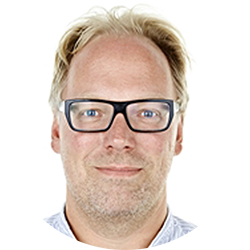
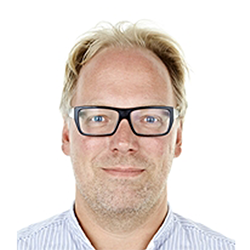
Billeder på aktivitet-undermenuer + nye personfotos
Har indsat fotos på aktivitet undermenuerne
samt nye personfotos

diff --git a/css/style.css b/css/style.css
@@ -399,11 +399,14 @@ color:#eb5612;
 ------------------------------------------------------------------*/
 
 
-article.personfotos {
+.personfotos {
 	margin-right:30px;
 	width: 250px;
 	height: 250px;
     display: inline-block;
+	-moz-border-radius: 50%;
+	border-radius: 50%;
+	border:3px solid #FFF;
 }
 
 article.persontekst {
@@ -414,6 +417,49 @@ article.persontekst {
 	height: 230px;
 }
 
+/*-----------------------------------------------------------------
+	module: kursus oversigt
+
+------------------------------------------------------------------*/
+
+.kursustekst {
+	float:right;
+	padding-top: 20px;
+	display:inline-block;
+	width: 650px;
+	height: 230px;
+}
+
+.kursuskrea, .kursusmad, .kursussten, .kursusbronze {
+	margin-right:30px;
+	width: 250px;
+	height: 250px;
+    display: inline-block;
+	-moz-border-radius: 50%;
+	border-radius: 50%;
+	border:3px solid #FFF;
+}
+/*-----------------------------------------------------------------
+	module: nordisk mesterskab 2016 side
+
+------------------------------------------------------------------*/
+.nordisktekst, .smedefestivaltekst, .workshoptekst {
+	float: left;
+	padding-top: 20px;
+	display:inline-block;
+	width: 650px;
+	height: 230px;
+}
+.nordiskfoto, .smedefestivalfoto, .workshopfoto {
+	margin-left:5px;
+	margin-top:100px;
+	width: 250px;
+	height: 250px;
+    display: inline-block;
+	-moz-border-radius: 50%;
+	border-radius: 50%;
+	border:3px solid #FFF;
+}
 /*-----------------------------------------------------------------
 	galleri: slider fra http://thedesignhill.com/wp-content/uploads/2014/01/creating-a-slick-auto-playing-featured-content-slider1
 

diff --git a/kurser.php b/kurser.php
@@ -8,10 +8,11 @@
 	<p class="space">	Kurser har fokus på ét emne/ håndværk og varer fra en til flere dage. 	Kurser kan også arrangeres efter aftale.</p>
 	
 	<article>
-		<h2>Kursus-kalender 2015:</h2>       	
+		<h2>Kursus-kalender 2015:</h2> 
+	<img class="kursuskrea" src="images/kreainnoentre.png">
+    <article class="kursustekst">      	
 		<h3>Kreativitet, innovation og entreprenørskab (3 dage) Pris: 1500Kr.</h3>
 		<p class="space"><date>Dato: 25-27.5. 2015. Fredag 16-21. Lørdag og søndag 9-16</date></p>
-		
 		<p>
 			Alle steder fra peges på behovet for innovation! Men hvordan lærer vi at blive innovative, og hvad vil det egentlig sige? – en ny måde at tænke og handle på? 
 			Kurset vil tage udgangspunkt i forskellige innovationsteorier samt anvende KIE modellen som metode for de mange workshops som deltagerne vil blive præsenteret for i løbet af kurset. 
@@ -23,28 +24,29 @@
 		</p>
 	</article>
 
-	<article>
+	<img class="kursusmad" src="images/madidetfri.png">
+    <article class="kursustekst"> 
 		<h3>Mad i det fri (1 dag). Pris 400Kr.</h3>
 		<p class="space"><date>Dato: 12. 5. 2012. Kl. 9-19<date></p>
 		<p class="space">
 			Mad i det fri, er kurset som vil give dig en indføring i madkunst over bål. Der vil både blive kogt, stegt, bagt og røget over åben ild. 
-			Endvidere skal vi fremstille og afprøve den årtusinde gamle opfindelse, jordovnen. Så hvis du er lærer eller pædagog som gerne vil i gang med at lave mad sammen med 
-			børn i det fri, eller privatperson som godt kunne tænke sig at komme i gang med at lave mad over bål hjemme i haven, så er dette et kursus som vil få dig godt i gang.
-			Fakta: Materia råder over Danmarks måske største åbne grill.
+			Endvidere skal vi fremstille og afprøve den årtusinde gamle opfindelse, jordovnen. Så hvis du er lærer eller pædagog som gerne vil i gang med at lave mad sammen med børn i det fri, eller privatperson som godt kunne tænke sig at komme i gang med at lave mad over bål hjemme i haven, så er dette et kursus som vil få dig godt i gang. Fakta: Materia råder over Danmarks måske største åbne grill.
 		</p>
 	</article>
 		
-	<article>
+	<img class="kursussten" src="images/stenhugning.png">
+    <article class="kursustekst"> 
 		<h3>Stenhugning  (2 dage) Pris 1000Kr.</h3>
 		<p class="space"><date>Dato: 29-30.10. 2011. Begge dage 9-16 (husk varmt tøj).<date></p>
 		<p class="space">
-			Kurset i stenhugning er for dig der synes granit er et smukt materiale, -men som endnu ikke ved, hvordan man bearbejder det. Kurset vil give dig indsigt i materialer, 
-			forskellige værktøjer og maskiner samt slibning, pudsning og polering. Desuden vil der på kurset blive diskuteret formgivning og blive givet råd og vejledning til de enkelte projekter. 
-			Kræver ingen forkundskaber, men det er en fordel, hvis du ikke er bange for at lære en vinkelsliber at kende.
+			Kurset i stenhugning er for dig der synes granit er et smukt materiale, -men som endnu ikke ved, hvordan man bearbejder det. Kurset vil give dig indsigt i materialer, forskellige værktøjer og maskiner samt slibning, pudsning og polering. Desuden vil der på kurset blive diskuteret formgivning og blive givet råd og vejledning til de enkelte projekter. 
+Kræver ingen forkundskaber, men det er en fordel, hvis du ikke er bange for at lære en vinkelsliber at kende.
 		</p>
 	</article>
 		
-	<article>
+	
+	<img class="kursusbronze" src="images/bronzestobning.png">
+    <article class="kursustekst"> 
 		<h3>Bronzestøbning - sandstøbning (2 dage) Pris 800Kr.</h3>
 		<p class="space"><date>Dato: 08-09.2011. Begge dage 9-16</date></p>
 		<p class="space">Kurset er for dig der gerne vil prøve at udtrykke dig i et helt andet materiale, nemlig bronze. 

diff --git a/om_materia.php b/om_materia.php
@@ -34,8 +34,7 @@
 			</p>
 		</article>
 
-		<article class="personfotos">
-			<img src="images/peterKnoss.png">
+		<img class="personfotos" src="images/peterKnoss.png">
 		</article>
 		<article class="persontekst">
 			<h3>Peter Knøss</h3>
@@ -47,10 +46,7 @@
 			</p>
 		</article>
 
-
-
-		<article class="personfotos">
-			<img src="images/klausPoulsen.png">
+		<img class="personfotos" src="images/klausPoulsen.png">
 		</article>
 		<article class="persontekst">
 			<h3>Klaus Poulsen</h3>
@@ -65,10 +61,7 @@
 			</p>
 		</article>
 
-
-
-		<article class="personfotos">
-			<img src="images/troelsNyholt.png">
+		<img class="personfotos" src="images/troelsNyholt.png">
 		</article>
 		<article class="persontekst">
 			<h3>Troels Nyholt</h3>
@@ -78,10 +71,7 @@
 			</p>
 		</article>
 
-
-
-		<article class="personfotos">
-			<img src="images/personAndreas.png">
+		<img class="personfotos" src="images/personAndreas.png">
 		</article>
 		<article class="persontekst">
 			<h3>Andreas</h3>
@@ -91,10 +81,7 @@
 			</p>
 		</article>
 
-
-
-		<article class="personfotos">
-			<img src="images/personPia.png">
+		<img class="personfotos" src="images/personPia.png">
 		</article>
 		<article class="persontekst">
 			<h3>Pia</h3>
@@ -103,10 +90,7 @@
 			</p>
 		</article>
 
-
-
-		<article class="personfotos">
-			<img src="images/personSoren.png">
+		<img class="personfotos" src="images/personSoren.png">
 		</article>
 		<article class="persontekst">
 			<h3>Søren</h3>

diff --git a/smedefestival.php b/smedefestival.php
@@ -3,10 +3,10 @@
 
 	<?php include('includes/sub_menu_aktiviteter.php');?>
 
-
+<article class="smedefestivaltekst">
 	<h1>Smedefestival</h1>
 
-	<date>Fredag eftermiddag d. 6. marts til søndag d. 8. marts.</date>
+	<date>Fredag eftermiddag d. 6. marts til søndag d. 8. marts 2015.</date>
 	
 	<h2>Kære Smedefolk.</h2>
 
@@ -19,6 +19,8 @@
 	<p>De som ønsker at deltage, tildeles 3 timer til at arbejde i, hvorefter produkterne vil blive bedømt - med fokus på deres kunstneriske og æstetiske udtryk. Dommerne er kunstnerne Jens Rømer og Bjørn Kromann. Der vil blive en flot præmie til vinderen.</p>
 	 
 	<p>Vi regner med at arrangementet kommer til koste ca. 300 kr. person. Det dækker lækker mad, kul, strøm, vand, brænde, grundmaterialer osv. for hele weekenden.</p>
+</article>
+<img class="smedefestivalfoto" src="images/smedefestival.png">
 </section>
 <?php include('includes/footer_inc.php');?>
 

diff --git a/workshops.php b/workshops.php
@@ -1,21 +1,23 @@
 <?php include('includes/header_inc.php');?>
 <section>
 <?php include('includes/sub_menu_aktiviteter.php');?>
-
+<article class="workshoptekst">
 	<h1>Workshops</h1>
 <p>
 Workshops er når flere værksteder er åbne ad gangen.
 Disse kan laves efter aftale og kombineres efter egne ønsker og behov.
-Vi har disse muligheder:
--smedning/ grovsmedning
--støbning i tin, bronze
--træskæring
--arbejde i frisk træ
--mokume gane
--drivning/ repoussé
--mad i det fri
-m.m.
+<p>Vi har disse muligheder:<p>
+-smedning/ grovsmedning<p>
+-støbning i tin, bronze<p>
+-træskæring<p>
+-arbejde i frisk træ<p>
+-mokume gane<p>
+-drivning/ repoussé<p>
+-mad i det fri<p>
+m.m.<p>
 </p>
+</article>
+<img class="workshopfoto" src="images/workshop.png">
 </section>
 <?php include('includes/footer_inc.php');?>
 

diff --git a/nm_2016.php b/nm_2016.php
@@ -1,11 +1,13 @@
 <?php include('includes/header_inc.php');?>
 <section>
 <?php include('includes/sub_menu_aktiviteter.php');?>
-
+<article class="nordisktekst">
 	<h1>Nordisk Mesterskab 2016</h1>
 <p>
 Her skal være information om det Nordiske Mesterskab i smedning, som afholdes på Materia i 2016.
 </p>
+</article>
+<img class="nordiskfoto" src="images/nordic2016.png">
 </section>
 <?php include('includes/footer_inc.php');?>
 
